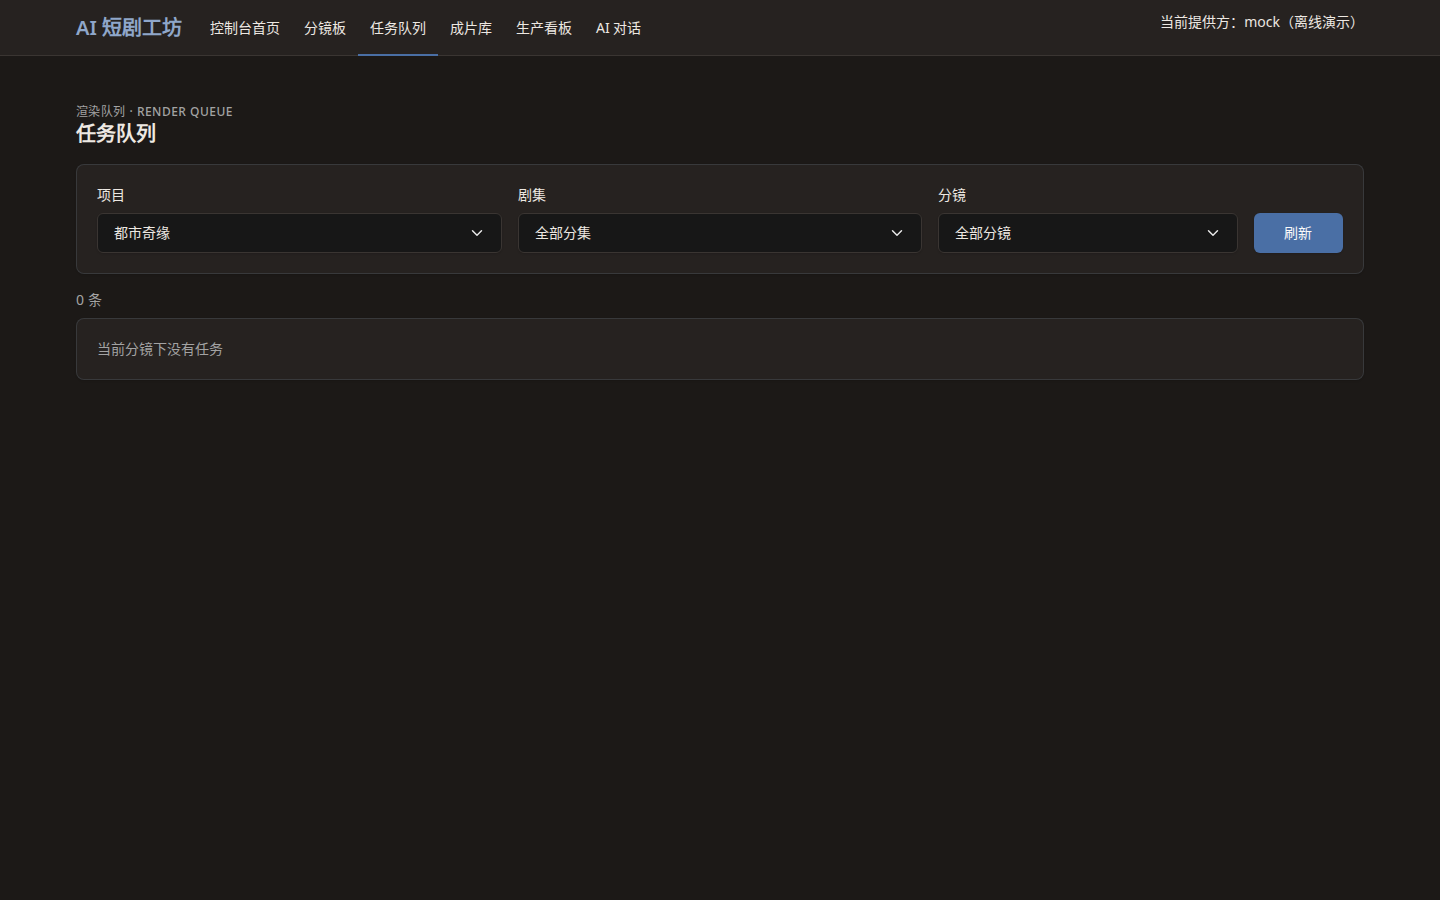
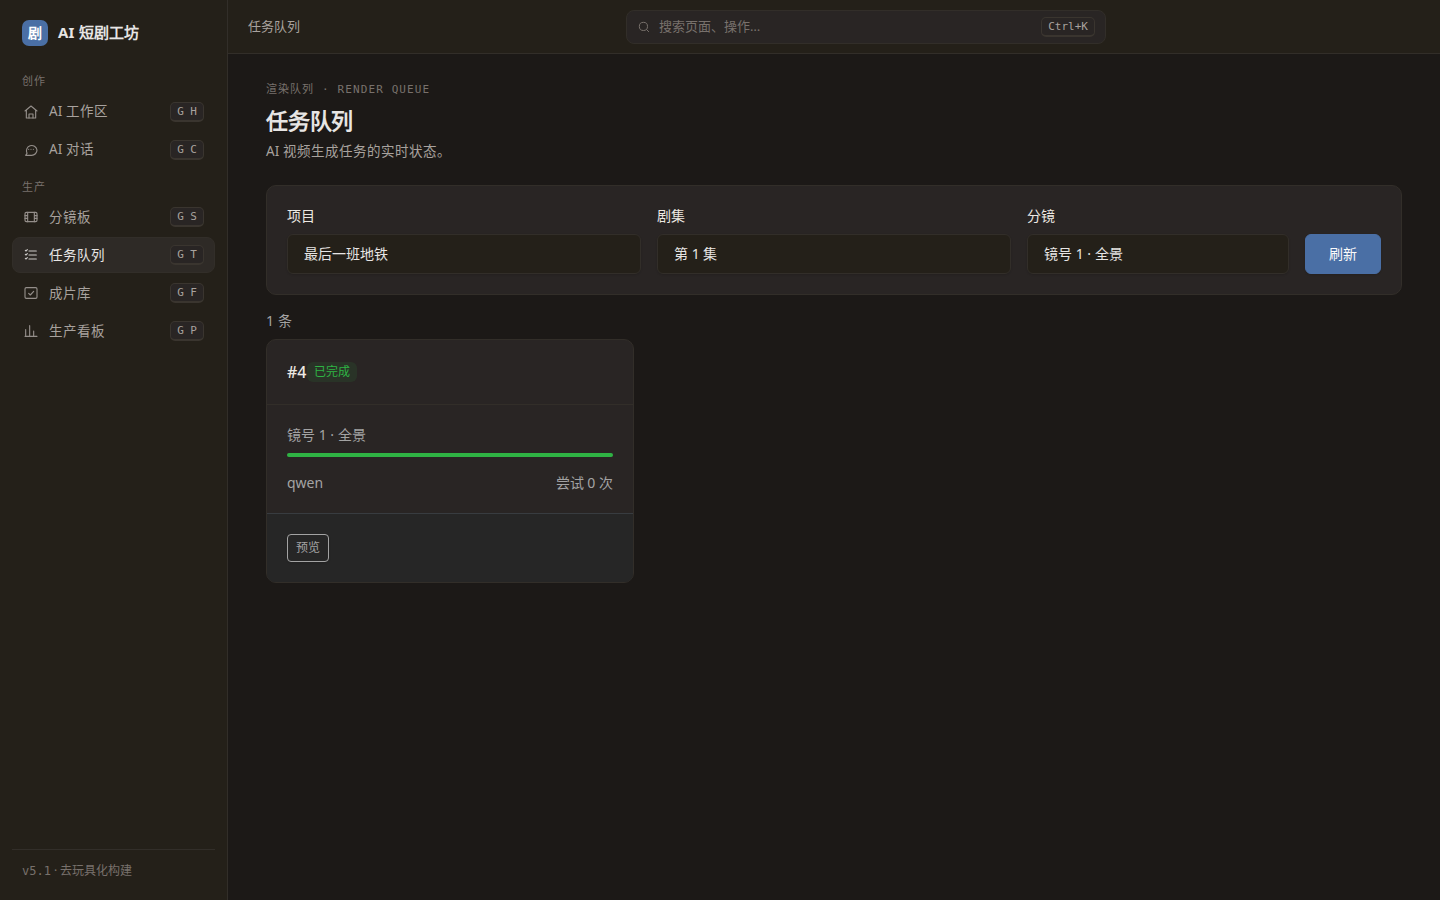
fix(drama-factory): v5.1 视觉验收修复——工作区双向同步 + 去质检链路
- 视觉验收 7 页（index/chat/storyboard/tasks/finals/pipeline/qc）逐张亲眼看过，
  真实演示数据（《最后一班地铁》3 镜 / 任务全完成 / 17 秒成片已过审）
- 修 bug 1：workspace.js 项目下拉单向同步——用户改左侧 #projectSelect 时
  右侧面板（项目高亮/剧集/统计/待质检）不同步，左右显示两个项目；
  在 init() 加 change 监听回调用 selectProject，双向同步（selectProject
  内有值比对保护，无死循环），已重截图验证左右一致
- 修 bug 2：工作区去质检链接用 ?finalCutId=，而 qc.js 只认 ?id=，
  点后跳空页；改为 ?id= 对齐
- docs/screenshots/ 7 张门面图同步为 v5.1 新 UI 真实截图
- mvn test 26/26 全过（BUILD SUCCESS）；真实 jar 冒烟通过

diff --git a/drama-factory/src/main/resources/static/workspace.js b/drama-factory/src/main/resources/static/workspace.js
@@ -171,7 +171,7 @@
         row.className = 'ep-row';
         row.innerHTML = '<span class="t">第 ' + esc(p.episodeNo) + ' 集' +
           (p.title ? ' · ' + esc(p.title) : '') + '</span>' +
-          '<a class="btn btn-sm btn-outline-primary" href="/qc.html?finalCutId=' + p.cutId + '">去质检</a>';
+          '<a class="btn btn-sm btn-outline-primary" href="/qc.html?id=' + p.cutId + '">去质检</a>';
         box.appendChild(row);
       });
     } catch (e) { /* 忽略 */ }
@@ -226,6 +226,14 @@
         if (sel) sel.dispatchEvent(new Event('change'));
       } catch (err) { toast('创建失败：' + err.message); }
     });
+
+    /* 左侧项目选择器变化时同步右侧面板 */
+    var ps = $('projectSelect');
+    if (ps) {
+      ps.addEventListener('change', function () {
+        if (ps.value) selectProject(ps.value);
+      });
+    }
 
     loadProjects();
   }

diff --git a/PROJECTS.md b/PROJECTS.md
@@ -110,6 +110,7 @@
 - 工程化 v2（2026-10-13）：短剧生产管线落地——分镜管理、视频任务状态机（mock/agnes 双 provider）、ffmpeg 剪辑成片（拼接+字幕烧录）、生产看板四页 Web UI；`drama.*` 配置全环境变量化（application.yml）；生产级 DoD 对照报告 docs/dod-v2.md（含未通过项排期表）；视觉验收亲手抓出并修复 2 个 bug（pipeline 看板二次渲染抛错致空白、pipeline.html 漏引 v2.css 致卡片无样式）
 - 生产级补强 v2.1（2026-10-13，DoD 第 1 轮三项全交付）：Flyway 版本化迁移（V1__baseline.sql 由 Hibernate 实际 DDL 导出，ddl-auto→validate，baseline-on-migrate 兼容老库）+ 提交幂等（同 shot PENDING/PROCESSING 去重，首次 201/重复 200）+ 优雅关闭（server.shutdown=graceful + 调度器 await-termination 30s + 轮询在途收尾钩子 25s）；mvn test 20/20 全过；真实 jar 冒烟验证 Flyway 基线/幂等 201→200/优雅关闭日志；发版对照报告 docs/dod-v2.1.md
 - 生产级补强 v2.2（2026-10-13，DoD 第 2 轮四项全交付）：结构化日志（logback-spring.xml，可读 pattern 含 request_id；SPRING_PROFILES_ACTIVE=json 切 Logstash JSON）+ request_id 全链路（RequestIdFilter 透传/生成/回写 X-Request-Id、ErrorResponse 含 requestId、调度轮询带 poll-xxx）+ Resilience4j（ResilientVideoProvider 装饰 agnes：CircuitBreaker 50%/4 次/60s + TimeLimiter 90s，熔断抛 ProviderCircuitOpenException 由指数退避接管）+ 提交接口限流（@RateLimiter 10 秒 10 次，超限 429 + Retry-After: 10）+ Docker Compose 一键部署（compose.yml：健康检查/日志轮转/资源限制；Dockerfile 加装 ffmpeg+curl）；mvn test 26/26 全过；真实 jar 冒烟全链路验证；发版对照报告 docs/dod-v2.2.md
+- v5.1 控制台统一外壳（2026-10-13）：shell.js 注入左侧窄导航（6 页 + G+字母快捷键）+ 顶栏全局搜索 + ⌘K/Ctrl+K 命令面板；app.css 统一视觉语言（暖炭 #1c1917 + 降饱和蓝 #4a6fa5，零 backdrop-filter/零渐变/零 emoji 图标，沿用 v4.1 主题）；首页重做为 AI 工作区（左 AI 对话 + 右生产概览 workspace.js）；Tabler 1.6.1 本地化入仓库摆脱 CDN；storyboard.js 支持 ?episodeId= 深链；7 页真实数据截图亲眼验收通过并同步 docs/screenshots/；视觉验收抓出 2 个 v5.1 bug 已修（workspace.js 项目下拉单向同步致左右脱节、"去质检"链接参数名 finalCutId 与 qc.js 的 id 错配致跳空页）；mvn test 26/26 全过
 
 **后续计划**：
 
